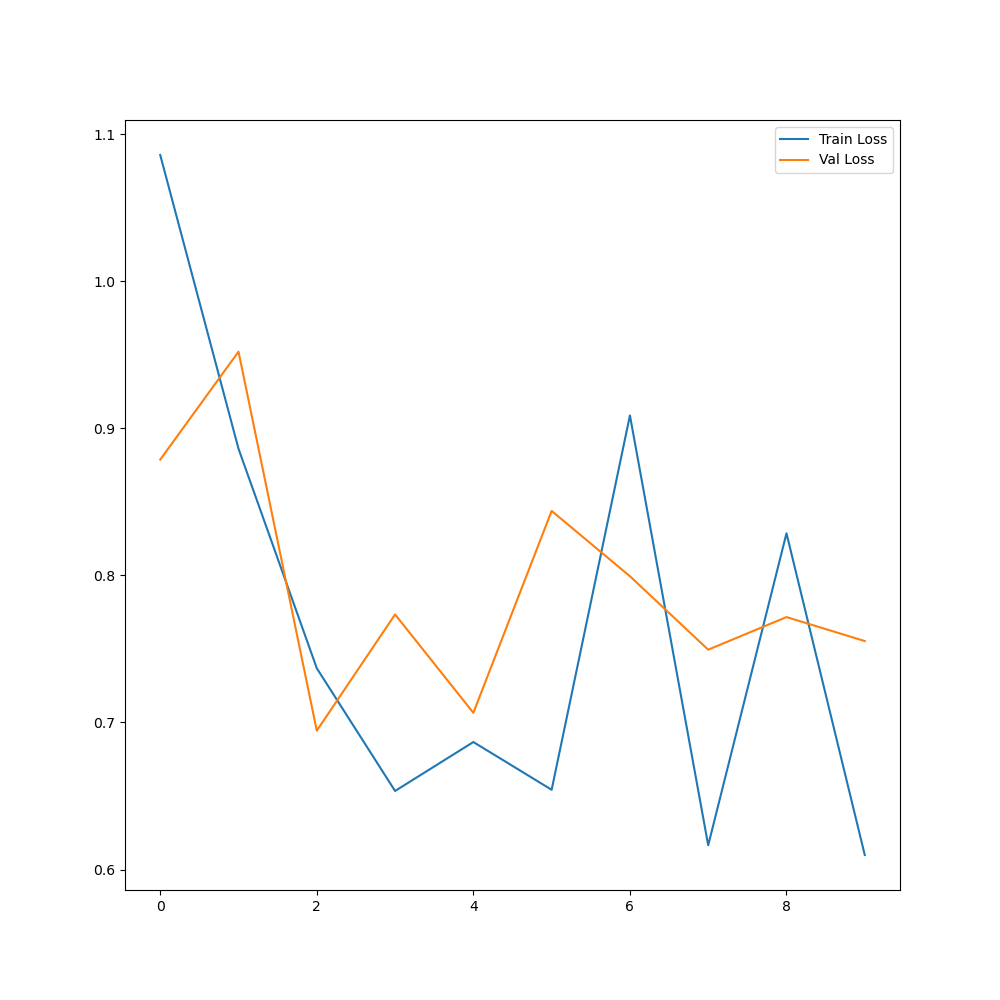
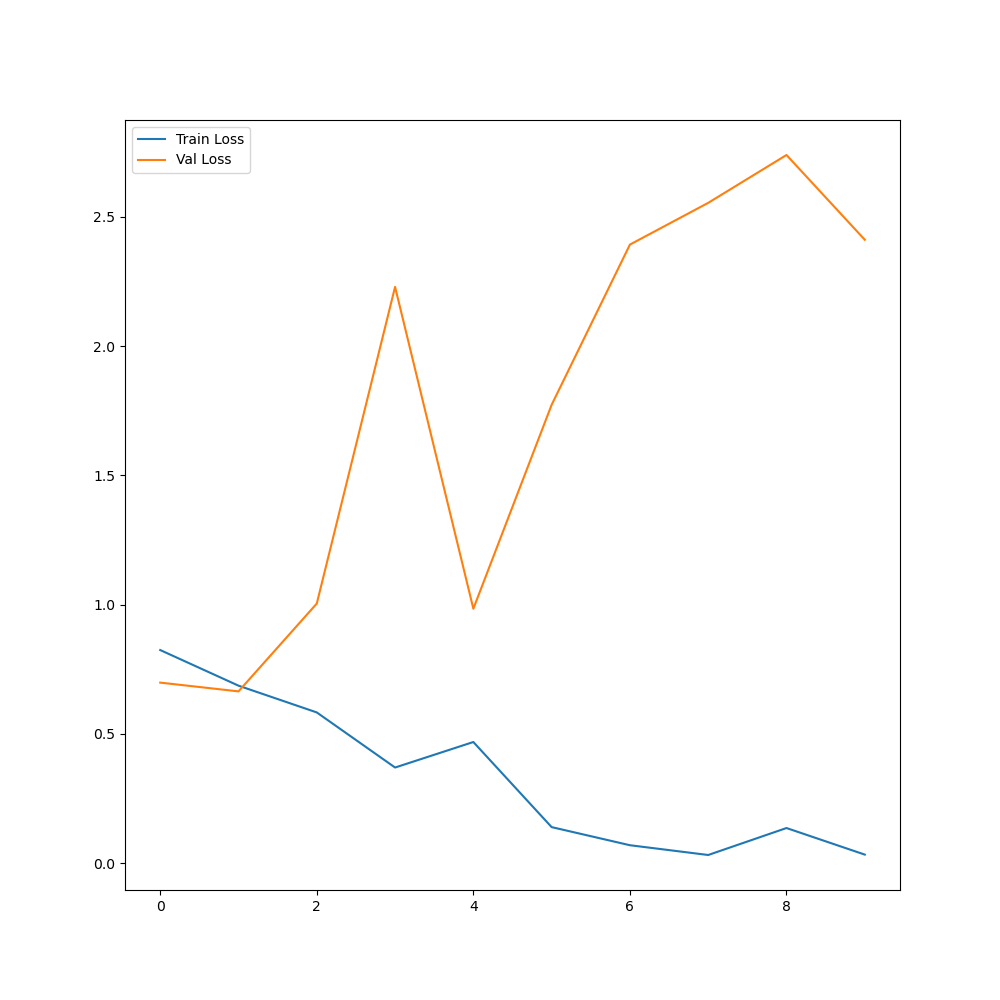
new training method

diff --git a/src/dataset.py b/src/dataset.py
@@ -17,7 +17,9 @@ def download_dataset(dataset_name="bookcorpus", subset_size=None, test=True):
     train_ds = ds['train']
     if subset_size is not None:
         train_ds = train_ds.select(range(int(len(train_ds)*subset_size)))
-    train_ds.to_csv('../data/'+dataset_name+'_train.csv', index=False)
+        train_ds.to_csv('../data/'+dataset_name+'_train_reduce.csv', index=False)
+    else:
+        train_ds.to_csv('../data/'+dataset_name+'_train.csv', index=False)
     if test:
         test_ds = ds['test']
         test_ds.to_csv('../data/'+dataset_name+'_test.csv', index=False)
@@ -43,7 +45,7 @@ def tokenizeDataset(csv_file):
 class NLPDataset():
     """ This dataset contains the sentences from the bookcorpus dataset
     """
-    def __init__(self, csv_file="../data/bookcorpus_train.csv"):
+    def __init__(self, csv_file="../data/bookcorpus_train_reduce.csv"):
         self.csv_file = csv_file
         self.longest_sent = 132 #TODO : find a way to get this value automatically
         self.word2idx = json.load(open('../data/word2idx.json', 'r'))
@@ -53,7 +55,7 @@ class NLPDataset():
             reader = csv.reader(file)
             row_count = sum(1 for row in reader)
         return row_count
-        
+               
     def get_item(self, idx):
         with open(self.csv_file, 'r') as file:
             line = linecache.getline(self.csv_file, idx)
@@ -67,22 +69,22 @@ class NLPDataset():
 
 class CPCDataset(Dataset):
     """ This dataset contains the triplets (history, positive, negative) indexes for contrastive learning
-    #TODO : set a size for the cpc dataset for each row randomly select step t and create learning sample ?
     """
-    def __init__(self, dataset, len, history_samples=10, prediction_len=3, negative_samples=10):
+    def __init__(self, dataset, learning_sample_len, history_samples=10, prediction_len=3, negative_samples=10):
         self.dataset = dataset
+        self.learning_sample_len = learning_sample_len
         len_dataset = self.dataset.get_len() #Len of the dataset containing the sentences
         self.history_samples = history_samples
         self.prediction_len = prediction_len
         self.contrastive_dataset = pd.DataFrame(columns=['history','positive','negative', 'step'])
-        for i in range(2, len_dataset):
-            if i < len_dataset - history_samples - prediction_len:
-                prediction_step = random.randint(1, prediction_len)
-                history_idx = [i+j for j in range(history_samples)]
-                positive_idx = i+history_samples+prediction_step-1
-                possible_negs = list(set(range(2, len_dataset)) - set(history_idx) - set([positive_idx]))
-                negative_idx = random.sample(possible_negs, negative_samples)
-                self.contrastive_dataset = pd.concat([self.contrastive_dataset, pd.DataFrame([[history_idx, positive_idx, negative_idx, prediction_step]], columns=['history','positive','negative', 'step'])])
+        for _ in range(self.learning_sample_len):
+            t = random.randint(2, len_dataset - history_samples - prediction_len)
+            prediction_step = random.randint(1, prediction_len)
+            history_idx = [t+j for j in range(history_samples)]
+            positive_idx = t+history_samples+prediction_step-1
+            possible_negs = list(set(range(2, len_dataset)) - set(history_idx) - set([positive_idx]))
+            negative_idx = random.sample(possible_negs, negative_samples)
+            self.contrastive_dataset = pd.concat([self.contrastive_dataset, pd.DataFrame([[history_idx, positive_idx, negative_idx, prediction_step]], columns=['history','positive','negative', 'step'])])
 
     def __len__(self):
         return len(self.contrastive_dataset)
@@ -97,13 +99,15 @@ class CPCDataset(Dataset):
 
 if __name__ == "__main__":
     #download_dataset("trec")
-    #download_dataset("bookcorpus",test=False)
-    tokenizeDataset("../data/bookcorpus_train.csv")
+    #download_dataset("bookcorpus", subset_size = 0.1, test=False)
+    #tokenizeDataset("../data/bookcorpus_train.csv")
+
     """
     print("Starting")
     dataset = NLPDataset()
     print(dataset.get_len())
-    cpc_dataset = CPCDataset(dataset)
+    cpc_dataset = CPCDataset(dataset, 1)
     print(cpc_dataset.contrastive_dataset.iloc[0])
-    cpc_dataset[0]
+    print(cpc_dataset[0])
+    print("Done")
     """

diff --git a/src/trainer.py b/src/trainer.py
@@ -10,17 +10,21 @@ import matplotlib.pyplot as plt
 
 
 def train():
-    print("Starting")
-    dataset = NLPDataset()
-    print(dataset.get_len())
-    cpc_dataset = CPCDataset(dataset)
-    print("Dataset loaded")
-    vocab_size = len(json.load(open('../data/word2idx.json', 'r')))
     embedding_dim = 128
     output_dim = 2400
     hidden_dim = 2400
-    batch_size = 64
-    epochs = 50
+    batch_size = 2
+    epochs = 10
+    patience = 10
+    history_len = 10
+    negative_len = 10
+    print("Starting")
+    dataset = NLPDataset()
+    print(dataset.get_len())
+    cpc_dataset = CPCDataset(dataset, 100)
+    print("Dataset loaded")
+    vocab_size = len(json.load(open('../data/word2idx.json', 'r')))
+    
     model = CpcModel(vocab_size, embedding_dim, output_dim, hidden_dim)
 
     optimizer = torch.optim.Adam(model.parameters(), lr=10e-5)
@@ -37,8 +41,7 @@ def train():
     val_accuracy_hist = np.array([])
 
     print("Start training")
-    patience = 10
-    patience_counter = 0
+
     for epoch in tqdm(range(epochs)):
         loss_batch = np.array([])
         acc_batch = np.array([])
@@ -59,16 +62,16 @@ def train():
                 val_loss = val_loss.mean()
                 val_loss_batch = np.append(val_loss_batch, [val_loss.detach().numpy()])
                 val_acc_batch = np.append(val_acc_batch, [val_accuracy])
-            
-
-        if val_loss_batch.mean() > val_loss_hist[-1]:
+   
+        if epoch == 0:
+            patience_counter = 0
+        elif val_loss_batch.mean() > val_loss_hist[-1]:
             patience_counter += 1
-            if patience_counter >= patience:
+            if patience_counter == patience:
                 print("Early stopping")
-                break
+                break   
         else:
             patience_counter = 0
-
         
         print("Epoch: {} Train Loss: {} Val Loss: {}".format(epoch, loss_batch.mean(), val_loss_batch.mean()))
         print("Epoch: {} Train Accuracy: {} Val Accuracy: {}".format(epoch, acc_batch.mean(), val_acc_batch.mean()))

diff --git a/src/evaluate.py b/src/evaluate.py
@@ -13,28 +13,33 @@ from sklearn.model_selection import train_test_split
 from sklearn.metrics import accuracy_score
 
 
-
 def eval():
-    dataset = NLPDataset("../data/trec.csv")
-    dataset.df = pd.read_csv(dataset.csv_file)
-    for i in range(len(dataset.df)):
-        dataset.df['text'].iloc[i] = dataset.get_item(i)
+    csv_file = "../data/trec_test.csv"
+    train_df = pd.read_csv(csv_file)
+    max_len = np.max(train_df["text"].apply(lambda x: len(x.split())))
+    word2idx = json.load(open('../data/word2idx.json', 'r'))
 
-    vocab_size = len(json.load(open('../data/word2idx.json', 'r')))
+    for i in range(len(train_df)):
+        #Tokenize
+        train_df['text'].iloc[i] = train_df['text'].iloc[i].lower() 
+        train_df['text'].iloc[i] = [word2idx[word] if word in word2idx else word2idx["<unk>"] for word in train_df['text'].iloc[i].split()] #Tokenize
+        train_df['text'].iloc[i] = train_df['text'].iloc[i] + [word2idx["<pad>"]] * (max_len - len(train_df['text'].iloc[i]))
+        train_df['text'].iloc[i] = torch.tensor(train_df['text'].iloc[i])
+
+    vocab_size = len(word2idx)
     embedding_dim = 128
     output_dim = 2400
     encoder = SentenceEncoder(vocab_size, embedding_dim, output_dim)
-    encoder.load_state_dict(torch.load("model_enc.pt"))
+    encoder.load_state_dict(torch.load("output/model_encoder.pt"))
 
-    for i in range(len(dataset.df)):
-        dataset.df['text'].iloc[i] = encoder(dataset.df['text'].iloc[i].unsqueeze(0)).detach().numpy()
+    for i in range(len(train_df)):
+        #Encode
+        train_df['text'].iloc[i] = encoder(train_df['text'].iloc[i].unsqueeze(0)).detach().numpy()
     
-    print(dataset.df.head())
 
-
-    X = np.array(dataset.df['text'].tolist())
+    X = np.array(train_df['text'].tolist())
     X = np.squeeze(X, axis=1)
-    y = np.array(dataset.df['coarse_label'].tolist())
+    y = np.array(train_df['coarse_label'].tolist())
 
     X_train, X_test, y_train, y_test = train_test_split(X, y, test_size=0.2)
 
